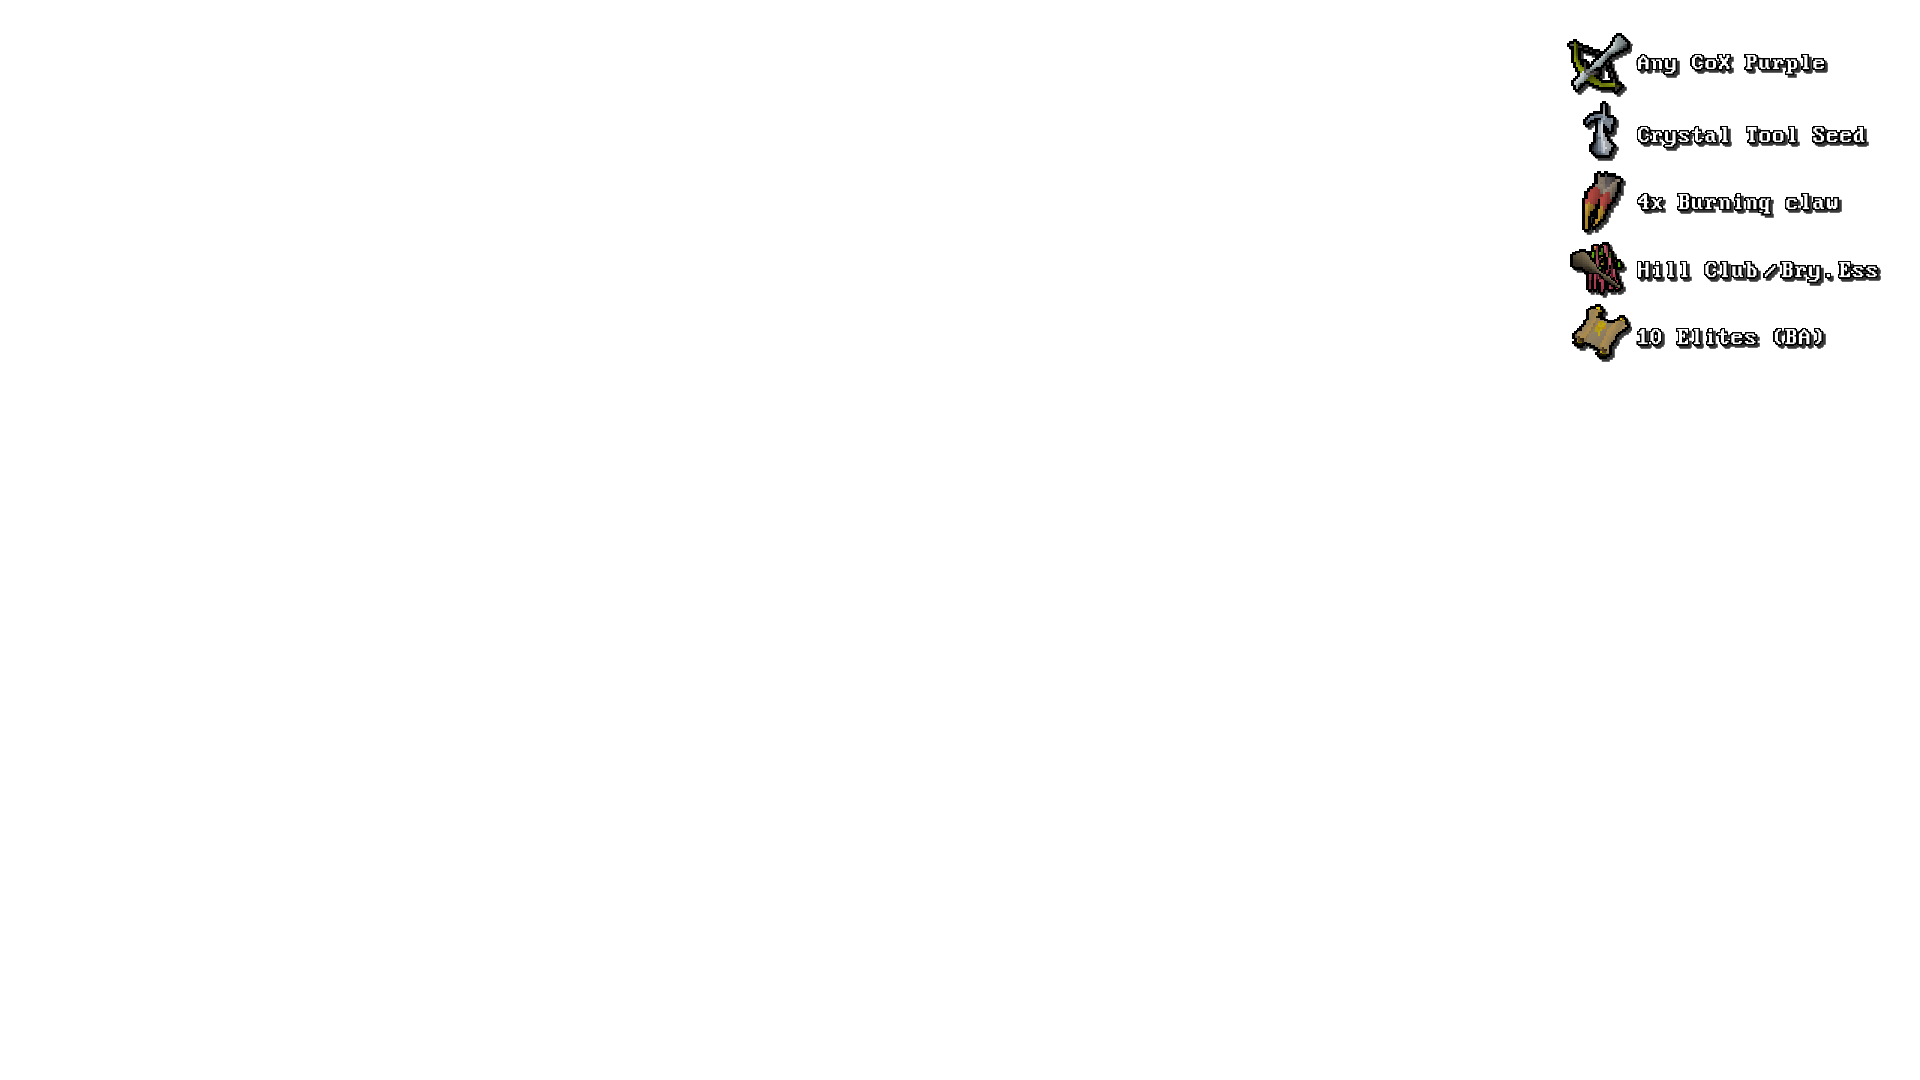
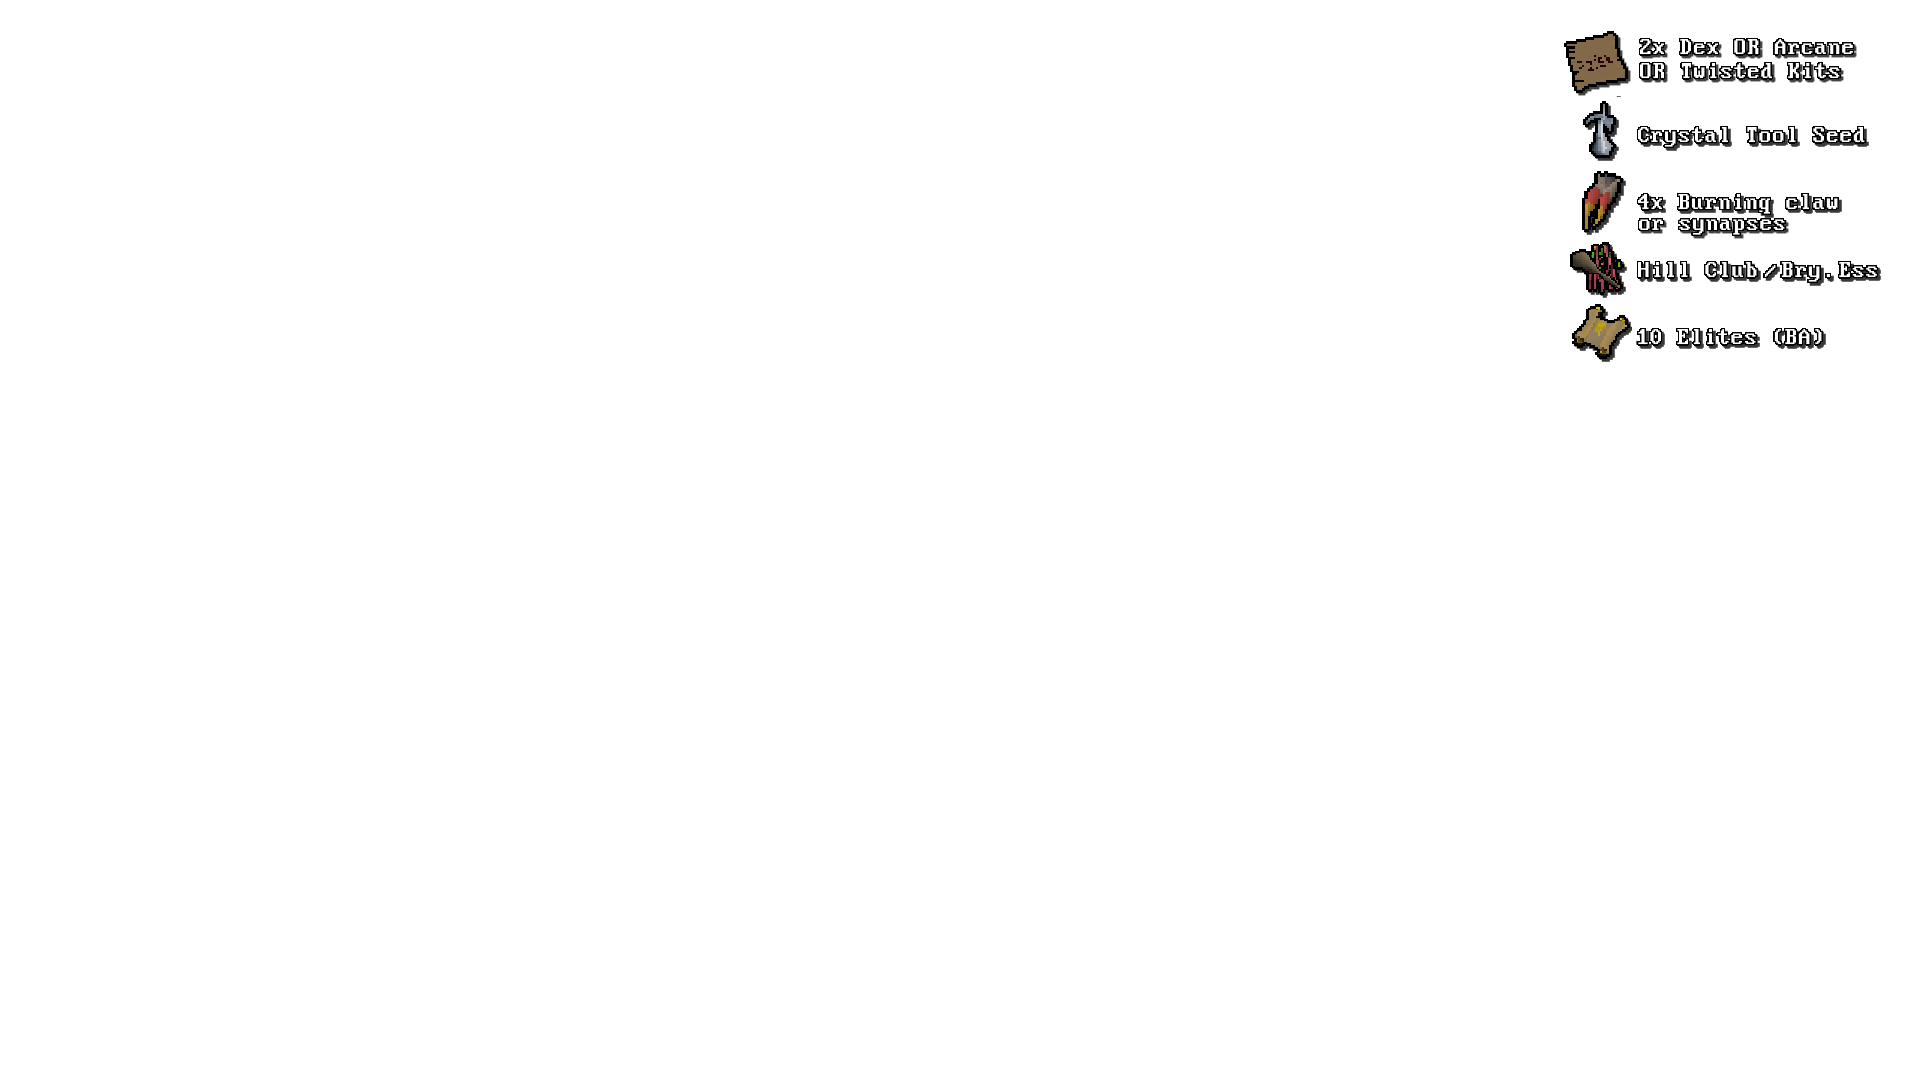
trial changes

Changed region(s): [[0.8125, 0.0306, 0.9688, 0.0917], [0.8438, 0.1833, 0.9375, 0.2444]]

diff --git a/discord_bot/cogs/player_cog.py b/discord_bot/cogs/player_cog.py
@@ -40,25 +40,25 @@ class PlayerCog(commands.Cog):
             },
             2: {
                 1: "Golden Tench",
-                2: "3x Obsidian Armor Pieces",
-                3: "Uncut Onyx",
+                2: "Golden Pheasant egg",
+                3: "3x Sunfire Fanatic Pieces",
                 4: "3x Cerberus Crystals",
-                5: "Any ToA Purple",
+                5: "3x Weapons from CoX/ToB/ToA",
             },
             3: {
-                1: "3x Chromium Ingots (Whisperer)",
-                2: "Moxi",
-                3: "5x Vorkath Heads",
-                4: "Full Ancient Ceremonial Robes",
-                5: "Any Tome",
-                6: "Ice Quartz",
+                1: "10x Vorkath Heads",
+                2: "Dragon Hunter Wand",
+                3: "Granite Man",
+                4: "Build-a-kitten",
+                5: "Bran",
+                6: "Moxi",
             },
             4: {
-                1: "Holy Elixir",
-                2: "Eternal Glory",
-                3: "3x Raid Purples",
-                4: "Nm Staff",
-                5: "5x Armor/Wep Seeds OR 1x Enhanced",
+                1: "Any 3x Armor Pieces from ToB/CoX/ToA",
+                2: "3x Oathplate Armor Pieces",
+                3: "Enhanced Weapon Seed",
+                4: "Nightmare Staff",
+                5: "5x Holy Elixir",
             },
         }
         
@@ -148,33 +148,33 @@ class PlayerCog(commands.Cog):
                 # Define different trial options for each world
                 world_trials = {
                     1: [
-                        app_commands.Choice(name="Any CoX Purple", value=1),
+                        app_commands.Choice(name="2x Dex/Arcane Scrolls or Twisted Kits from CoX", value=1),
                         app_commands.Choice(name="Crystal Tool Seed", value=2),
-                        app_commands.Choice(name="4x Burning Claws", value=3),
+                        app_commands.Choice(name="4x Burning Claws or Synapses", value=3),
                         app_commands.Choice(name="Bryophyta's Essence OR Hill Giant Club", value=4),
                         app_commands.Choice(name="10x Elite Clues", value=5),
                     ],
                     2: [
                         app_commands.Choice(name="Golden Tench", value=1),
-                        app_commands.Choice(name="3x Obsidian Armor Pieces", value=2),
-                        app_commands.Choice(name="Uncut Onyx", value=3),
+                        app_commands.Choice(name="Golden Pheasant egg", value=2),
+                        app_commands.Choice(name="3x Sunfire Fanatic Pieces", value=3),
                         app_commands.Choice(name="3x Cerberus Crystals", value=4),
-                        app_commands.Choice(name="Any ToA Purple", value=5),
+                        app_commands.Choice(name="3x Weapons from CoX/ToB/ToA", value=5),
                     ],
                     3: [
-                        app_commands.Choice(name="3x Chromium Ingots (Whisperer)", value=1),
-                        app_commands.Choice(name="Moxi", value=2),
-                        app_commands.Choice(name="5x Vorkath Heads", value=3),
-                        app_commands.Choice(name="Full Ancient Ceremonial Robes", value=4),
-                        app_commands.Choice(name="Any Tome", value=5),
-                        app_commands.Choice(name="Ice Quartz", value=6),
+                        app_commands.Choice(name="10x Vorkath Heads", value=1),
+                        app_commands.Choice(name="Dragon Hunter Wand", value=2),
+                        app_commands.Choice(name="Granite Man", value=3),
+                        app_commands.Choice(name="Build-a-kitten", value=4),
+                        app_commands.Choice(name="Bran", value=5),
+                        app_commands.Choice(name="Moxi", value=6),
                     ],
                     4: [
-                        app_commands.Choice(name="Holy Elixir", value=1),
-                        app_commands.Choice(name="Eternal Glory", value=2),
-                        app_commands.Choice(name="3x Raid Purples", value=3),
-                        app_commands.Choice(name="Nm Staff", value=4),
-                        app_commands.Choice(name="5x Armor/Wep Seeds OR 1x Enhanced", value=5),
+                        app_commands.Choice(name="Any 3x Armor Pieces from ToB/CoX/ToA", value=1),
+                        app_commands.Choice(name="3x Oathplate Armor Pieces", value=2),
+                        app_commands.Choice(name="Enhanced Weapon Seed", value=3),
+                        app_commands.Choice(name="Nightmare Staff", value=4),
+                        app_commands.Choice(name="Holy Elixir", value=5),
                     ],
                 }
                 
@@ -223,7 +223,7 @@ class PlayerCog(commands.Cog):
             elif game_state == 2:
                 world_bosses = {
                     1: [
-                        app_commands.Choice(name="Any CoX Mega-rare", value=1),
+                        app_commands.Choice(name="Any CoX Mega-rare or Dust", value=1),
                     ],
                     2: [
                         app_commands.Choice(name="Tonalztics of Ralos", value=1),

diff --git a/discord_bot/embeds.py b/discord_bot/embeds.py
@@ -174,25 +174,25 @@ def build_w2_key_board_embed(team_data):
             inline=False
         )
         embed.add_field(
-            name=f"**Trial 1-B: {Emojis.TRIAL_W2_2} 3x Obsidian Armor Pieces**",
+            name=f"**Trial 1-B: {Emojis.TRIAL_W2_2} Golden Pheasant egg**",
             value=f"`{format_submission(team_data['w2key2_completion_counter'])}`",
             inline=False
         )
     elif w2_path_chosen == 1:
         embed.add_field(
-            name=f"**Trial 2: {Emojis.TRIAL_W2_4} 3x Cerberus Crystals**",
+            name=f"**Trial 2: {Emojis.TRIAL_W2_4} 3x Sunfire Fanatic Pieces**",
             value=f"`{format_submission(team_data['w2key4_completion_counter'])}`",
             inline=False
         )
     elif w2_path_chosen == -1:
         embed.add_field(
-            name=f"**Trial 2: {Emojis.TRIAL_W2_3} Uncut Onyx**",
+            name=f"**Trial 2: {Emojis.TRIAL_W2_3} 3x Cerberus Crystals**",
             value=f"`{format_submission(team_data['w2key3_completion_counter'])}`",
             inline=False
         )
     elif w2_path_chosen == 2:
         embed.add_field(
-            name=f"**Trial 3: {Emojis.TRIAL_W2_5} Any ToA Purple**",
+            name=f"**Trial 3: {Emojis.TRIAL_W2_5} 3x Weapons from CoX/ToB/ToA**",
             value=f"`{format_submission(team_data['w2key5_completion_counter'])}`",
             inline=False
         )
@@ -241,34 +241,34 @@ def build_w3_key_board_embed(team_data):
     w3_braziers_lit = team_data.get("w3_braziers_lit", 0)
     if w3_braziers_lit == 0:
         embed.add_field(
-            name=f"**Trial 1-A: 3x Chromium Ingots from Whisperer**",
+            name=f"**Trial 1-A: 10x Vorkath Heads**",
             value=f"`{format_submission(team_data['w3key1_completion_counter'])}`",
             inline=False
         )
         embed.add_field(
-            name=f"**Trial 1-B: Moxi**",
+            name=f"**Trial 1-B: Dragon Hunter Wand**",
             value=f"`{format_submission(team_data['w3key2_completion_counter'])}`",
             inline=False
         )    
     if w3_braziers_lit == 1:
         embed.add_field(
-            name=f"**Trial 2-A: 5x Vorkath Heads**",
+            name=f"**Trial 2-A: Granite Man**\nGranite helmet, body, legs, weapon, shield, ring, boots, gloves",
             value=f"`{format_submission(team_data['w3key3_completion_counter'])}`",
             inline=False
         )
         embed.add_field(
-            name=f"**Trial 2-B: Full Ancient Ceremonial Robes**",
+            name=f"**Trial 2-B: Build-a-kitten**\nRaid unique helmet slot, chestplate, legs, weapon, and shield.\n*(2h counts for weapon + shield)*",
             value=f"`{format_submission(team_data['w3key4_completion_counter'])}`",
             inline=False
         )
     if w3_braziers_lit == 2:
         embed.add_field(
-            name=f"**Trial 3-A: Any Tome**",
+            name=f"**Trial 3-A: Bran**",
             value=f"`{format_submission(team_data['w3key5_completion_counter'])}`",
             inline=False
         )
         embed.add_field(
-            name=f"**Trial 3-B: Ice Quartz**",
+            name=f"**Trial 3-B: Moxi**",
             value=f"`{format_submission(team_data['w3key6_completion_counter'])}`",
             inline=False
         )
@@ -313,7 +313,7 @@ def build_w4_key_board_embed(team_data):
             inline=False
         )
         embed.add_field(
-            name=f"{Emojis.TRIAL_W4_1} Trial 1: Holy Elixir",
+            name=f"{Emojis.TRIAL_W4_1} Trial 1: Any 3x Armor Pieces from ToB/CoX/ToA",
             value=f"`{format_submission(team_data['w4key1_completion_counter'])}`",
             inline=False
         )
@@ -324,12 +324,12 @@ def build_w4_key_board_embed(team_data):
             inline=False
         )
         embed.add_field(
-            name=f"{Emojis.TRIAL_W4_2} Trial 2-A: Amulet of Eternal Glory",
+            name=f"{Emojis.TRIAL_W4_2} Trial 2-A: 3x Oathplate Armor Pieces",
             value=f"`{format_submission(team_data['w4key2_completion_counter'])}`",
             inline=False
         )
         embed.add_field(
-            name=f"{Emojis.TRIAL_W4_3} Trial 2-B: 3x Raid Purples",
+            name=f"{Emojis.TRIAL_W4_3} Trial 2-B: Enhanced Weapon Seed",
             value=f"`{format_submission(team_data['w4key3_completion_counter'])}`",
             inline=False
         )
@@ -345,7 +345,7 @@ def build_w4_key_board_embed(team_data):
             inline=False
         )
         embed.add_field(
-            name=f"{Emojis.TRIAL_W4_5} Trial 3: 5x Armor/Weapon Seeds OR 1x Enhanced Crystal Weapon Seed",
+            name=f"{Emojis.TRIAL_W4_5} Trial 3: Holy Elixir",
             value=f"`{format_submission(team_data['w4key5_completion_counter'])}`",
             inline=False
         )

diff --git a/discord_bot/constants.py b/discord_bot/constants.py
@@ -30,16 +30,23 @@ class Emojis:
     TRIAL_ICON_W1="<:Ancient_remnant:1392604921190289530>"
 
     TRIAL_W2_1="<:Golden_tench:1392602820737368220>"
-    TRIAL_W2_2="<:Obsidian_platebody:1392603054955696199>"
-    TRIAL_W2_3="<:Uncut_onyx:1392603338293379202>"
+    TRIAL_W2_2="<:Golden_pheasant_egg:1394904233177911347>"
+    TRIAL_W2_3="<:Sunfire_fanatic_helm:1394904324248965164>"
     TRIAL_W2_4="<:Primordial_crystal:1392603490328776774>"
-    TRIAL_W2_5="<:Elidinis27_ward:1392603633907929228>"
+    TRIAL_W2_5="<:Osmumtens_fang:1394904462715392071>"
 
-    TRIAL_W4_1="<:Holy_elixir:1392977427025629194>"
-    TRIAL_W4_2="<:Amulet_of_eternal_glory:1392977534517379242>"
-    TRIAL_W4_3="<:Sanguinesti_staff:1392977699957510215>"
+    TRIAL_W3_1="<:Vorkaths_head:1394904134335070289>"
+    TRIAL_W3_2="<:Dragon_hunter_wand:1394903984363409479>"
+    TRIAL_W3_3="<:Granite_helm:1394903840029020190>"
+    TRIAL_W3_4="<:Worn_Equipment:1394903804628959304>"
+    TRIAL_W3_5="<:Bran:1394903413011120228>"
+    TRIAL_W3_6="<:Moxi:1394903647321850007>"
+
+    TRIAL_W4_1="<:Justiciar_chestguard:1394904637093576714>"
+    TRIAL_W4_2="<:Oathplate_chest:1394904700381560954>"
+    TRIAL_W4_3="<:Enhanced_crystal_weapon_seed:1394904799119409172>"
     TRIAL_W4_4="<:Nightmare_staff:1392977819436318810>"
-    TRIAL_W4_5="<:Crystal_armour_seed:1392977899111579758>"
+    TRIAL_W4_5="<:Holy_elixir:1392977427025629194>"
 
 
     TWISTED_BOW="<:Twisted_bow:1392562692472176641>"

diff --git a/game_service_api/models/team.py b/game_service_api/models/team.py
@@ -32,30 +32,30 @@ class Team:
 
     # World 2 key tile completion counters
     w2key1_completion_counter: int = 1
-    w2key2_completion_counter: int = 3
-    w2key3_completion_counter: int = 1
+    w2key2_completion_counter: int = 1
+    w2key3_completion_counter: int = 3
     w2key4_completion_counter: int = 3
-    w2key5_completion_counter: int = 1
+    w2key5_completion_counter: int = 3
 
     # World 2 specific state variables
     w2_path_chosen: int = 0
 
     # World 3 specific state variables
     w3_braziers_lit: int = 0
-    w3key1_completion_counter: int = 3
+    w3key1_completion_counter: int = 10
     w3key2_completion_counter: int = 1
-    w3key3_completion_counter: int = 5
+    w3key3_completion_counter: int = 8
     w3key4_completion_counter: int = 5
     w3key5_completion_counter: int = 1
     w3key6_completion_counter: int = 1
 
     # World 4 specific state variables
     w4_trial_iteration: int = 0 # 0 = first trial, 1 = pick one of three, 2 = final
-    w4key1_completion_counter: int = 1
-    w4key2_completion_counter: int = 1
-    w4key3_completion_counter: int = 3
+    w4key1_completion_counter: int = 3
+    w4key2_completion_counter: int = 3
+    w4key3_completion_counter: int = 1
     w4key4_completion_counter: int = 1
-    w4key5_completion_counter: int = 5
+    w4key5_completion_counter: int = 1
 
     team_image_path: str = "1.png"
     thumbnail_url: str = ""
